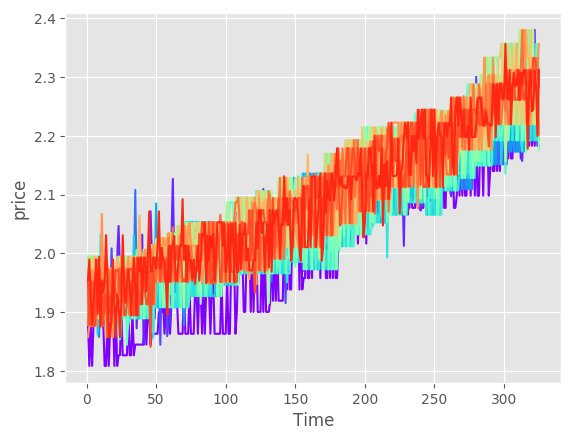
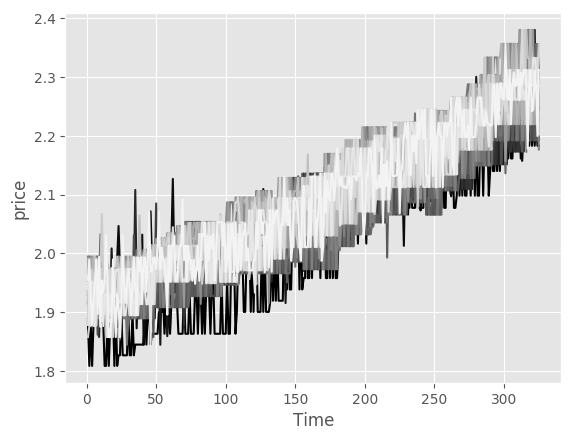
Added greyscale support

Changed region(s): [[0.1481, 0.0591, 0.9477, 0.8568]]

diff --git a/src/visualisation_scripts/plots.py b/src/visualisation_scripts/plots.py
@@ -113,7 +113,10 @@ class Timeseries(A):
                             a[s] = i/len(minor_index)
                         #print("First a: ", a)
                         #print(np.random.uniform(0, 1, size = len(D)//self.__N))
-                        colors = iter(cm.rainbow(a))
+                        if self.__P.greyscale(self.idx):
+                            colors = iter(cm.gray(a))
+                        else:
+                            colors = iter(cm.rainbow(a))
                         for r in range(0, len(y)):
                             clr = next(colors)
                             self.plot_line(ax, x, y[r], legend_label[0]+'_run_'+str(r)+str(m),clr)
@@ -141,7 +144,10 @@ class Timeseries(A):
                         a[s] = s/size
                     #print("Second a: ", a)
                     #print(np.random.uniform(0, 1, size = len(dframe)//self.__N))
-                    colors = iter(cm.rainbow(a))
+                    if self.__P.greyscale(self.idx):
+                        colors = iter(cm.gray(a))
+                    else:
+                        colors = iter(cm.rainbow(a))
 
                     for r in range(0, len(dframe)//self.__N):
                         clr = next(colors)
@@ -166,7 +172,10 @@ class Timeseries(A):
                         a[s] = s/size
                     #print("Third a: ", a)
                     #print(np.random.uniform(0, 1, size = len(dframe)//self.__N))
-                    colors = iter(cm.rainbow(a))
+                    if self.__P.greyscale(self.idx):
+                        colors = iter(cm.gray(a))
+                    else:
+                        colors = iter(cm.rainbow(a))
 
                     for r in range(0, len(dframe)//self.__N):
                         x = np.arange(1, self.__N+1)
@@ -319,7 +328,10 @@ class Histogram():
                         a = np.empty(shape=size,)
                         for s in range(size):
                             a[s] = i/len(minor_index)
-                        colors = iter(cm.rainbow(a))
+                        if self.__P.greyscale(self.idx):
+                            colors = iter(cm.gray(a))
+                        else:
+                            colors = iter(cm.rainbow(a))
 
                         for r in range(0, len(y)):
                             clr = next(colors)
@@ -346,7 +358,10 @@ class Histogram():
                         a = np.empty(shape=size,)
                         for s in range(size):
                             a[s] = s/size
-                        colors = iter(cm.rainbow(a))
+                        if self.__P.greyscale(self.idx):
+                            colors = iter(cm.gray(a))
+                        else:
+                            colors = iter(cm.rainbow(a))
 
                         for r in range(0, len(y1)): # TODO: y1 and y2 length must not be different, add a check
                             clr = next(colors)
@@ -367,7 +382,10 @@ class Histogram():
                         a = np.empty(shape=size,)
                         for s in range(size):
                             a[s] = s/size
-                        colors = iter(cm.rainbow(a))
+                        if self.__P.greyscale(self.idx):
+                            colors = iter(cm.gray(a))
+                        else:
+                            colors = iter(cm.rainbow(a))
 
                         for r in range(0, len(dframe)//self.__N):
                             clr = next(colors)
@@ -388,7 +406,10 @@ class Histogram():
                         a = np.empty(shape=size,)
                         for s in range(size):
                             a[s] = s/size
-                        colors = iter(cm.rainbow(a))
+                        if self.__P.greyscale(self.idx):
+                            colors = iter(cm.gray(a))
+                        else:
+                            colors = iter(cm.rainbow(a))
 
                         clr = next(colors)
                         self.plot_histogram(ax, col_A, legend_label[0], clr, self.__P.bins(self.idx))
@@ -402,7 +423,10 @@ class Histogram():
                         #colors = iter(cm.rainbow(np.random.uniform(0, 1, size = 1)))
 
                         # edit colormap here
-                        colors = iter(cm.rainbow(np.array([0.0]))) #0.0:blue 1.0:red
+                        if self.__P.greyscale(self.idx):
+                            colors = iter(cm.gray(np.array([0.0])))
+                        else:
+                            colors = iter(cm.rainbow(np.array([0.0]))) #0.0:blue 1.0:red
 
                         clr = next(colors)
                         self.plot_histogram(ax, col_A, legend_label[0], clr, self.__P.bins(self.idx))
@@ -446,7 +470,10 @@ class Histogram():
                         a = np.empty(shape=size,)
                         for s in range(size):
                             a[s] = s/size
-                        colors = iter(cm.rainbow(a))
+                        if self.__P.greyscale(self.idx):
+                            colors = iter(cm.gray(a))
+                        else:
+                            colors = iter(cm.rainbow(a))
 
                         for r in range(0,len(D),self.__N):
                             fig, ax = plt.subplots()
@@ -473,7 +500,10 @@ class Histogram():
                     a = np.empty(shape=size,)
                     for s in range(size):
                         a[s] = s/size
-                    colors = iter(cm.rainbow(a))
+                    if self.__P.greyscale(self.idx):
+                        colors = iter(cm.gray(a))
+                    else:
+                        colors = iter(cm.rainbow(a))
 
                     for r in range(0, len(dframe)//self.__N):
                         fig, ax = plt.subplots()
@@ -496,7 +526,10 @@ class Histogram():
                     a = np.empty(shape=size,)
                     for s in range(size):
                         a[s] = s/size
-                    colors = iter(cm.rainbow(a))
+                    if self.__P.greyscale(self.idx):
+                        colors = iter(cm.gray(a))
+                    else:
+                        colors = iter(cm.rainbow(a))
 
                     for s in range(0, len(dframe)//self.__N):
                         fig, ax = plt.subplots()
@@ -571,7 +604,10 @@ class Scatterplot(A):
                 fig, ax = plt.subplots() # initialize figure
 
                 # edit colormap here
-                colors = iter(cm.rainbow(np.linspace(0, 1, len(dframe)//self.__N)))
+                if self.__P.greyscale(self.idx):
+                    colors = iter(cm.gray(np.linspace(0, 1, len(dframe)//self.__N)))
+                else:
+                    colors = iter(cm.rainbow(np.linspace(0, 1, len(dframe)//self.__N)))
 
                 for m in minor_index:
                     D = dframe.xs(int(m), level='minor')
@@ -609,7 +645,10 @@ class Scatterplot(A):
                         y2.append(np.array(col_B[i:i+self.__N]))
 
                     # edit colormap here
-                    colors = iter(cm.rainbow(np.linspace(0, 1, len(y1))))
+                    if self.__P.greyscale(self.idx):
+                        colors = iter(cm.gray(np.linspace(0, 1, len(y1))))
+                    else:
+                        colors = iter(cm.rainbow(np.linspace(0, 1, len(y1))))
 
                     for r in range(0, len(dframe)//self.__N):
                         clr = next(colors)
@@ -627,7 +666,10 @@ class Scatterplot(A):
                     col_B = dframe[dframe.columns[1]]
 
                     # edit colormap here
-                    colors = iter(cm.rainbow(np.linspace(0, 1, 1)))
+                    if self.__P.greyscale(self.idx):
+                        colors = iter(cm.gray(np.linspace(0, 1, 1)))
+                    else:
+                        colors = iter(cm.rainbow(np.linspace(0, 1, 1)))
 
                     clr = next(colors)
                     self.plot_scatterplot(ax, col_A, col_B, legend_label[0]+' vs '+legend_label[1], legend_label[0], legend_label[1], clr)
@@ -649,7 +691,10 @@ class Scatterplot(A):
                 minor_index = dframe.index.get_level_values('minor').unique()
 
                 # edit colormap here
-                colors = iter(cm.rainbow(np.linspace(0, 1, len(dframe)//self.__N)))
+                if self.__P.greyscale(self.idx):
+                    colors = iter(cm.gray(np.linspace(0, 1, len(dframe)//self.__N)))
+                else:
+                    colors = iter(cm.rainbow(np.linspace(0, 1, len(dframe)//self.__N)))
 
                 for m in minor_index:
                     D = dframe.xs(int(m), level='minor')
@@ -685,7 +730,10 @@ class Scatterplot(A):
                     y2.append(np.array(col_B[i:i+self.__N]))
 
                 # edit colormap here
-                colors = iter(cm.rainbow(np.linspace(0, 1, len(y1))))
+                if self.__P.greyscale(self.idx):
+                    colors = iter(cm.gray(np.linspace(0, 1, len(y1))))
+                else:
+                    colors = iter(cm.rainbow(np.linspace(0, 1, len(y1))))
 
                 for r in range(0, len(dframe)//self.__N):
                     fig, ax = plt.subplots()

diff --git a/src/visualisation_scripts/parameters.py b/src/visualisation_scripts/parameters.py
@@ -304,6 +304,11 @@ class Plot_configuration():
             return self.__param[key]['fillcolor']
         return self.__default_plot_parameters.__dict__['fillcolor']
 
+    def greyscale(self, key):
+        if 'greyscale' in self.__param[key].keys():
+            return self.__param[key]['greyscale']
+        return self.__default_plot_parameters.__dict__['greyscale']
+
     def numboxplotbars(self, key):
         if 'number_bars' in self.__param[key].keys():
             return self.__param[key]['number_bars']
@@ -335,6 +340,7 @@ class Figure_default_parameters(object):
         self.normed = 1
         self.fill = False
         self.fillcolor = 'black'
+        self.greyscale = False
         self.number_bars = 5
 
 
